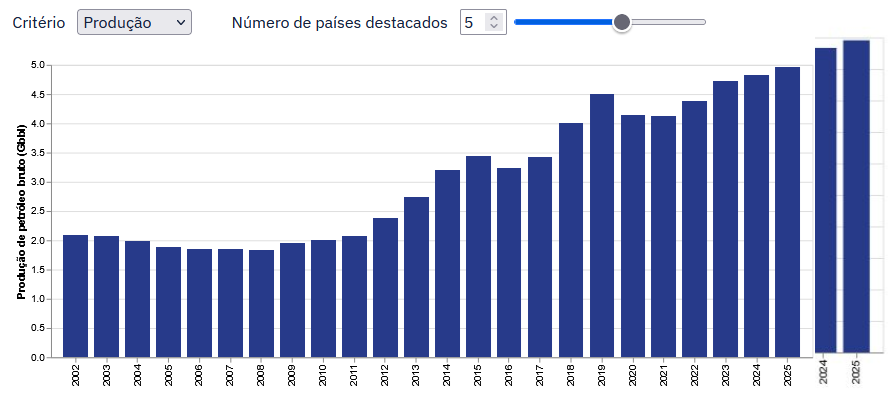
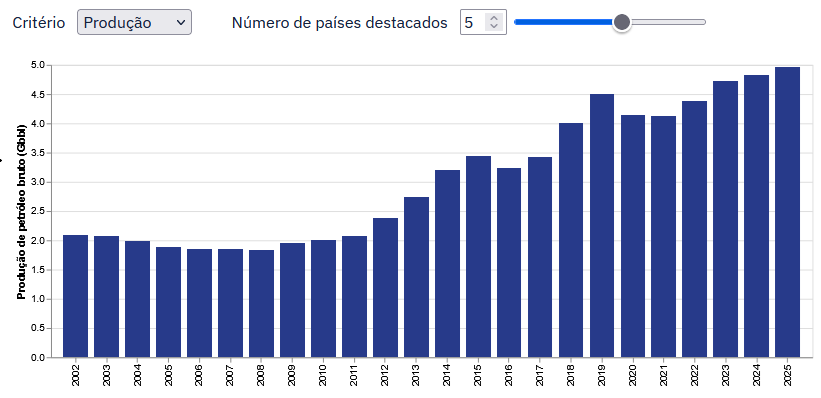
Consertando imagem xisto.png

diff --git a/index.html b/index.html
@@ -57,7 +57,7 @@
       
       <section class="story__block">
         <figure class="story__figure">
-          <img width="700rem" src="xisto.png"/>
+          <img width="600rem" src="xisto.png"/>
           <figcaption>As barras indicam a produção anual de petróleo bruto (em Gbbl) nos <mark>EUA</mark> durante o período de 2002 a 2025.</figcaption>
         </figure>
         <div class="story__text">